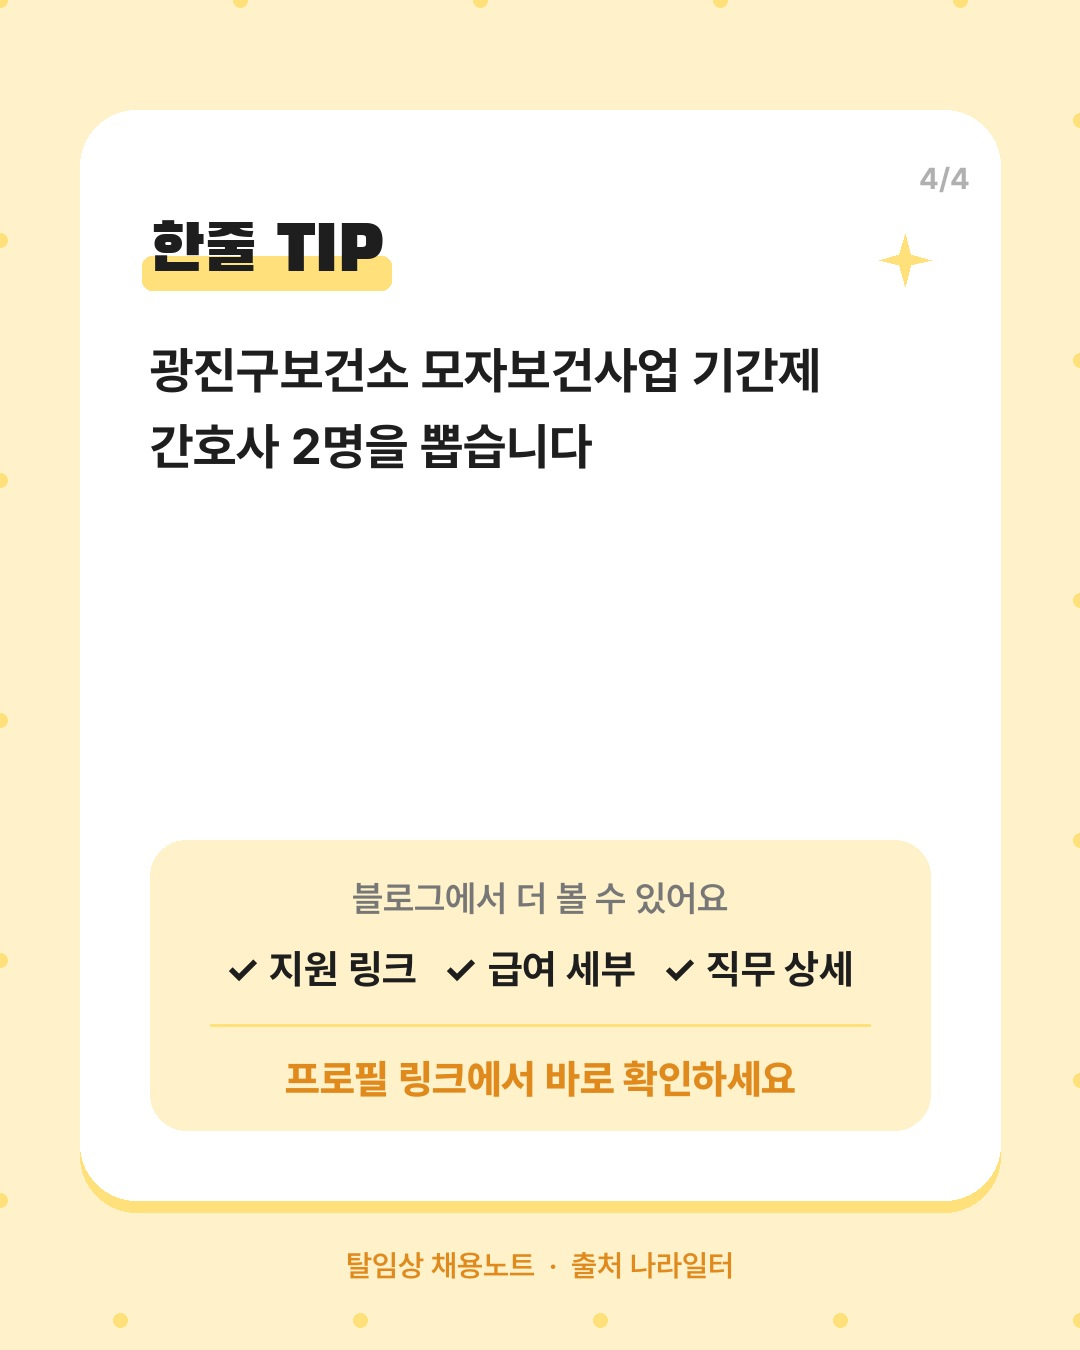
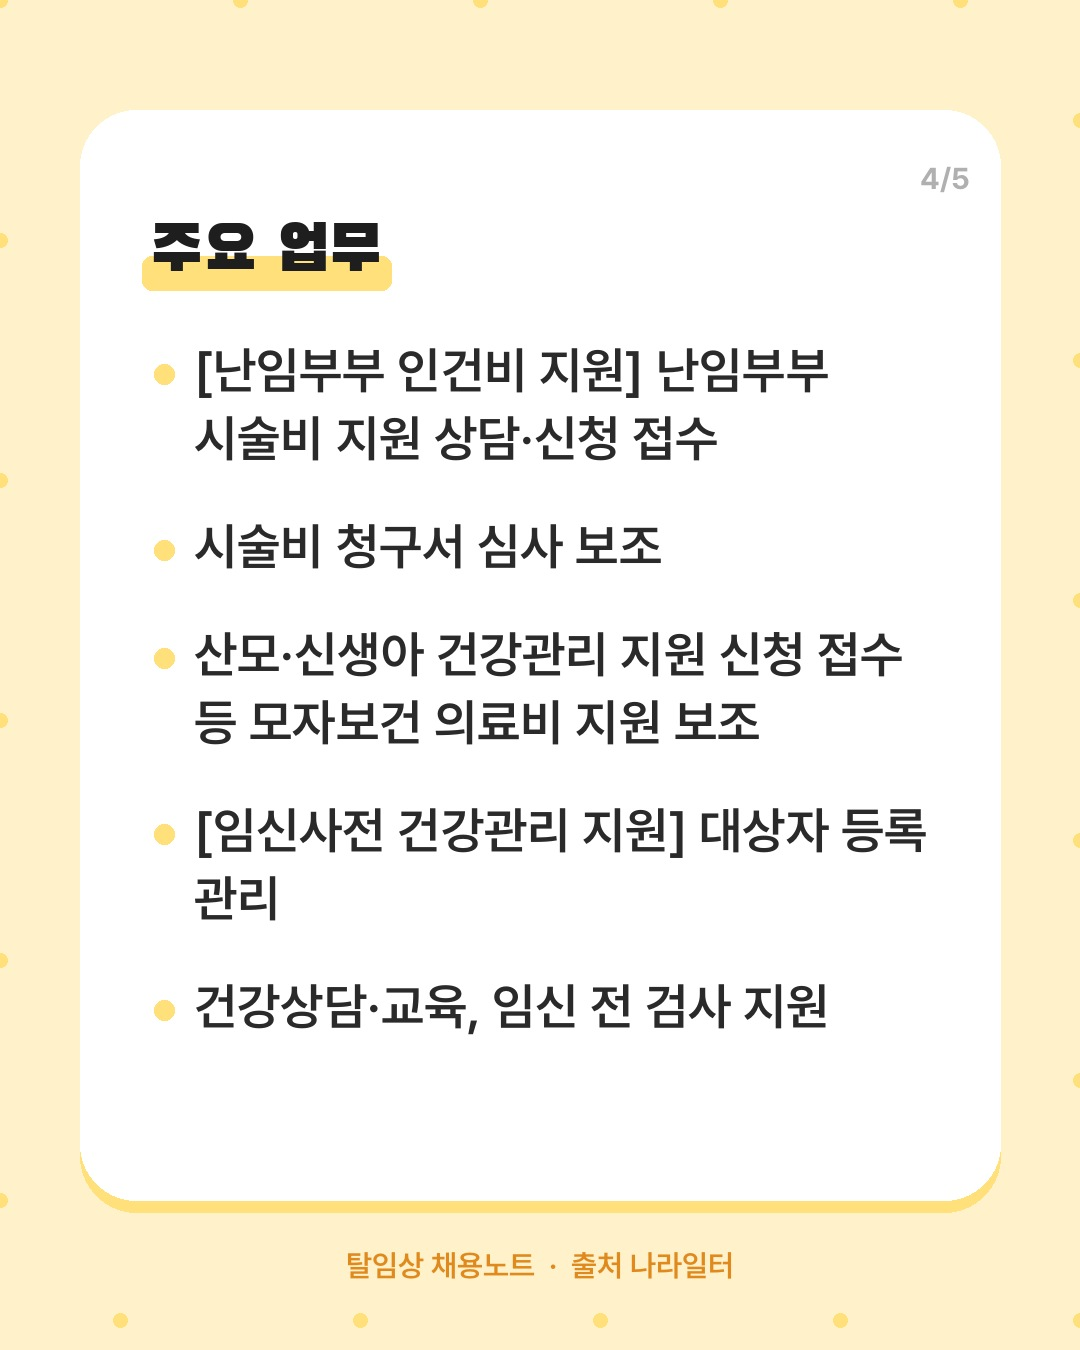
광진구보건소·평촌고 공고 내용 보완 (공고문), 블로그에 접수 방법 표시
Claude-Session: https://claude.ai/code/session_015ozFBvjxcWAyqLYfTbBGCZ

diff --git a/docs/2026-11-19/index.html b/docs/2026-11-19/index.html
@@ -19,31 +19,33 @@ a{color:var(--accent)}ul.days{padding-left:1.2em}
 <h1>2026-11-19 탈임상 공고 12건</h1>
 
 <h2>📝 오늘 올릴 블로그 글 3개</h2>
-<div class="box"><div class="row"><b>글 1. 평촌고등학교 · 기간제 보건교사</b>
+<div class="box"><div class="row"><b>글 1. 평촌고등학교 · 보건교사</b>
 <span class="muted">카테고리: 탈임상 채용공고 &gt; 보건교사</span></div>
-<div class="row" style="margin-top:8px"><pre id="pt1" style="flex:1;margin:0">(~11/23) 평촌고등학교 기간제 보건교사 채용</pre>
+<div class="row" style="margin-top:8px"><pre id="pt1" style="flex:1;margin:0">(~11/23) 평촌고등학교 보건교사 기간제 채용</pre>
 <button onclick="copyText('pt1',this)">제목 복사</button></div>
 <details open><summary class="muted" style="margin:10px 0;cursor:pointer">본문 미리보기 (접기)</summary>
 <div id="pb1" class="post"><p>호봉 기준 봉급을 받는 전일제 기간제라, 보건교사 자격증으로 학교 현장 경력을 쌓기 좋은 기회예요. 안양 평촌고가 연말까지 근무할 보건교사 1명을 찾고 있습니다.</p><p>&nbsp;</p>
 <h2>📌 채용 개요</h2>
 <table border="1" cellpadding="8" style="border-collapse:collapse;width:100%">
 <tr><td style="width:30%;background:#f5f5f5"><b>기관</b></td><td>평촌고등학교</td></tr>
-<tr><td style="width:30%;background:#f5f5f5"><b>부서 · 직무</b></td><td>기간제 보건교사</td></tr>
+<tr><td style="width:30%;background:#f5f5f5"><b>부서 · 직무</b></td><td>보건교사</td></tr>
 <tr><td style="width:30%;background:#f5f5f5"><b>채용 인원</b></td><td>1명</td></tr>
-<tr><td style="width:30%;background:#f5f5f5"><b>고용 형태</b></td><td>보건 (2026.11.27~2026.12.31)</td></tr>
+<tr><td style="width:30%;background:#f5f5f5"><b>고용 형태</b></td><td>기간제교원 (2026.11.27~2026.12.31)</td></tr>
 <tr><td style="width:30%;background:#f5f5f5"><b>근무지</b></td><td>경기 안양시</td></tr>
-<tr><td style="width:30%;background:#f5f5f5"><b>급여</b></td><td>공고문 확인 필요 (기관 내규)</td></tr>
+<tr><td style="width:30%;background:#f5f5f5"><b>급여</b></td><td>호봉 고정급 (공무원보수규정)</td></tr>
 <tr><td style="width:30%;background:#f5f5f5"><b>근무 시간</b></td><td>전일제</td></tr>
 <tr><td style="width:30%;background:#f5f5f5"><b>접수 기간</b></td><td>11월 18일 ~ 11월 23일 10:00 (D-4)</td></tr>
 </table><p>&nbsp;</p>
-<h2>💰 급여</h2><ul><li>공무원보수규정 제8조에 따라 산정된 호봉의 봉급 (고정급, 계약에 따름)</li></ul><p>&nbsp;</p>
+<h2>💰 급여</h2><ul><li>공무원보수규정 제8조에 따라 산정된 호봉의 봉급을 고정급으로 지급 (계약에 따름)</li></ul><p>&nbsp;</p>
 <h2>🎁 복리후생</h2><ul><li>건강보험·고용보험·산재보험·국민연금 가입</li></ul><p>&nbsp;</p>
-<h2>✅ 지원 자격</h2><ul><li>내국인으로서 보건교사 교원자격증 소지자</li><li>교육공무원 정년(만 62세) 미해당자 (1차 공고 65세까지 가능)</li><li>국가공무원법 제33조 등 결격사유에 해당하지 않는 자</li></ul><p>&nbsp;</p>
+<h2>✅ 지원 자격</h2><ul><li>보건교사 교원자격증 소지자 (내국인)</li><li>임용 상한 연령(교육공무원 정년) 미해당자</li><li>국가공무원법 제33조 등 결격사유 없는 자</li></ul><p>&nbsp;</p>
+<h2>⭐ 우대 사항</h2><ul><li>취업지원대상자 (관련 법률에 따라 우대)</li></ul><p>&nbsp;</p>
 <h2>📎 직무내용</h2><ul><li>고등학교 보건교사 업무</li></ul><p>&nbsp;</p>
-<h2>🧭 전형 절차</h2><ol><li>서류 → 면접(11.24) → 최종 발표(11.24)</li></ol><p>&nbsp;</p>
-<h2>💡 한줄 TIP</h2><p>마감이 11월 23일(월) 오전 10시라 주말 전에 서류를 준비해 두는 게 좋아요. 이메일 접수 시 파일명을 &#x27;지원서_과목_이름&#x27;으로 맞춰야 하니 놓치지 마세요.</p><p>&nbsp;</p>
+<h2>🧭 전형 절차</h2><ol><li>서류전형 → 면접(11/24) → 최종합격 개별통보(11/24)</li></ol><p>&nbsp;</p>
+<h2>💡 한줄 TIP</h2><p>학기 말 짧게 학교 경력을 쌓으려는 보건교사 자격 소지자에게 적합. 11/23 오전 10시 마감.</p><p>&nbsp;</p>
 <h2>🔗 지원하기</h2><ul>
 <li><a href="https://www.goe.go.kr/recruit/ad/func/pb/hnfpPbancList.do?mi=10502">경기도교육청 구인정보조회</a> → <b>"평촌고등학교"</b> 검색 후 지원하세요</li>
+<li>접수 방법: 방문(평촌고 우솔관 2층 교무실) 또는 이메일(pchs4824@korea.kr, 파일명: 지원서_과목_이름) 접수</li>
 </ul><p>※ 공고 내용을 요약한 글이에요. 지원 전 원문 공고문을 꼭 확인해주세요.</p><p>&nbsp;</p>
 <p>#평촌고등학교채용 #간호사채용 #탈임상 #탈임상간호사 #평촌고채용 #기간제보건교사 #안양보건교사 #경기교육청 #고등학교보건 #간호사이직</p></div></details>
 <div class="row"><span class="muted">네이버 글쓰기에 제목 → 본문 순서로 붙여넣으세요</span>
@@ -85,34 +87,38 @@ a{color:var(--accent)}ul.days{padding-left:1.2em}
 <div class="row" style="margin-top:10px"><pre id="tg2" style="flex:1;margin:0">#부산대학교병원채용 #간호사채용 #탈임상 #탈임상간호사 #부산대병원채용 #권역외상센터 #연구직간호사 #국비계약직 #외상데이터 #부산</pre>
 <button onclick="copyText('tg2',this)">태그 복사</button></div>
 <div class="row" style="margin-top:10px;align-items:flex-start"><a href="thumb-02.png" download><img src="thumb-02.png" alt="썸네일 2" style="width:160px;border-radius:8px;border:1px solid var(--line)"></a>
-<span class="muted">썸네일: 이미지를 눌러 저장 후 글 맨 위에 넣으세요</span></div></div><div class="box"><div class="row"><b>글 3. 광진구보건소 · 간호사</b>
+<span class="muted">썸네일: 이미지를 눌러 저장 후 글 맨 위에 넣으세요</span></div></div><div class="box"><div class="row"><b>글 3. 서울특별시 광진구보건소 · 간호사</b>
 <span class="muted">카테고리: 탈임상 채용공고 &gt; 공공기관·공무원</span></div>
-<div class="row" style="margin-top:8px"><pre id="pt3" style="flex:1;margin:0">(~12/4) 광진구보건소 건강관리과 건강돌봄팀 간호사 기간제 채용</pre>
+<div class="row" style="margin-top:8px"><pre id="pt3" style="flex:1;margin:0">(~12/4) 서울특별시 광진구보건소 건강관리과 간호사 기간제 채용</pre>
 <button onclick="copyText('pt3',this)">제목 복사</button></div>
 <details open><summary class="muted" style="margin:10px 0;cursor:pointer">본문 미리보기 (접기)</summary>
-<div id="pb3" class="post"><p>서울 안에서 병원이 아닌 보건소 사업으로 경력을 시작해 보고 싶다면 눈여겨볼 자리예요. 광진구보건소가 모자보건사업을 함께할 간호사 2명을 기간제로 찾고 있습니다.</p><p>&nbsp;</p>
+<div id="pb3" class="post"><p>교대 없이 평일 9시부터 6시까지, 보건소에서 임산부·난임부부를 돕는 일을 찾는다면 반가운 공고예요. 서울 광진구보건소 건강관리과가 모자보건사업 기간제 간호사 2명을 분야별로 1명씩 뽑아요.</p><p>&nbsp;</p>
 <h2>📌 채용 개요</h2>
 <table border="1" cellpadding="8" style="border-collapse:collapse;width:100%">
-<tr><td style="width:30%;background:#f5f5f5"><b>기관</b></td><td>광진구보건소</td></tr>
-<tr><td style="width:30%;background:#f5f5f5"><b>부서 · 직무</b></td><td>건강관리과 건강돌봄팀 간호사</td></tr>
-<tr><td style="width:30%;background:#f5f5f5"><b>채용 인원</b></td><td>2명</td></tr>
+<tr><td style="width:30%;background:#f5f5f5"><b>기관</b></td><td>서울특별시 광진구보건소</td></tr>
+<tr><td style="width:30%;background:#f5f5f5"><b>부서 · 직무</b></td><td>건강관리과 간호사</td></tr>
+<tr><td style="width:30%;background:#f5f5f5"><b>채용 인원</b></td><td>2명 (분야별 1명)</td></tr>
 <tr><td style="width:30%;background:#f5f5f5"><b>고용 형태</b></td><td>기간제 (2027.01.04~2027.06.30)</td></tr>
-<tr><td style="width:30%;background:#f5f5f5"><b>근무지</b></td><td>서울시 광진구 아차산로 400 (광진구보건소)</td></tr>
-<tr><td style="width:30%;background:#f5f5f5"><b>급여</b></td><td>공고문 확인 필요 (기관 내규)</td></tr>
-<tr><td style="width:30%;background:#f5f5f5"><b>근무 시간</b></td><td>공고문 확인 필요</td></tr>
-<tr><td style="width:30%;background:#f5f5f5"><b>접수 기간</b></td><td>11월 16일 ~ 12월 4일 (D-15)</td></tr>
+<tr><td style="width:30%;background:#f5f5f5"><b>근무지</b></td><td>서울특별시 광진구 아차산로 400, 광진구보건소 3층 건강관리과</td></tr>
+<tr><td style="width:30%;background:#f5f5f5"><b>급여</b></td><td>월 약 267만원</td></tr>
+<tr><td style="width:30%;background:#f5f5f5"><b>근무 시간</b></td><td>주 5일 09:00~18:00</td></tr>
+<tr><td style="width:30%;background:#f5f5f5"><b>접수 기간</b></td><td>11월 16일 ~ 12월 4일 18:00 (D-15)</td></tr>
 </table><p>&nbsp;</p>
-<h2>💰 급여</h2><ul><li>보수는 첨부 채용공고문 확인</li></ul><p>&nbsp;</p>
-<h2>✅ 지원 자격</h2><ul><li>간호사 면허 소지자 (세부 자격은 첨부 채용공고문 확인)</li></ul><p>&nbsp;</p>
-<h2>📎 직무내용</h2><ul><li>모자보건사업 업무</li></ul><p>&nbsp;</p>
-<h2>💡 한줄 TIP</h2><p>임산부·영유아 대상 사업에 관심 있는 분께 잘 맞는 자리예요. 근무는 내년 1월부터 6개월이고, 이메일로도 접수할 수 있어 재직 중이어도 지원하기 편해요. 보수·세부 자격은 첨부 공고문을 꼭 확인하세요.</p><p>&nbsp;</p>
+<h2>💰 급여</h2><ul><li>1일 급여 102,056원 (주휴수당 지급)</li><li>2026년 서울시 생활임금 월 2,666,213원 보전 지급 (예산에 따라 변동 가능)</li><li>4대 보험료 본인부담금 포함 금액</li><li>계약기간은 2027년 예산·근무상황에 따라 변동 가능</li></ul><p>&nbsp;</p>
+<h2>🎁 복리후생</h2><ul><li>주휴수당 지급</li><li>연차유급휴가</li><li>4대 보험</li></ul><p>&nbsp;</p>
+<h2>✅ 지원 자격</h2><ul><li>간호사 면허증 소지자로 실무 적용 능력을 갖춘 자</li><li>지방공무원법 제31조(결격사유) 등 관련 법령상 결격사유 없는 자</li></ul><p>&nbsp;</p>
+<h2>⭐ 우대 사항</h2><ul><li>모자보건사업 경력자</li><li>한글·엑셀 등 컴퓨터 프로그램 활용 가능자</li></ul><p>&nbsp;</p>
+<h2>📎 직무내용</h2><ul><li>[난임부부 인건비 지원] 난임부부 시술비 지원 상담·신청 접수</li><li>시술비 청구서 심사 보조</li><li>산모·신생아 건강관리 지원 신청 접수 등 모자보건 의료비 지원 보조</li><li>[임신사전 건강관리 지원] 대상자 등록 관리</li><li>건강상담·교육, 임신 전 검사 지원</li><li>임산부·영유아 등록 및 건강관리</li><li>35세 이상 임산부 의료비 지원, 서울아기 건강첫걸음 사업 지원</li></ul><p>&nbsp;</p>
+<h2>🧭 전형 절차</h2><ol><li>서류심사 → 면접심사(12/17 예정) → 최종합격(12/21)</li></ol><p>&nbsp;</p>
+<h2>💡 한줄 TIP</h2><p>교대 없는 주간 근무로 보건소 모자보건 경력을 쌓고 싶은 간호사에게 추천합니다. 서울시 생활임금 보전.</p><p>&nbsp;</p>
 <h2>🔗 지원하기</h2><ul>
-<li><a href="https://www.korea.kr/archive/recruitInfoView.do?dataId=399954">기관 채용 홈페이지에서 바로 지원</a></li>
+<li><a href="https://www.korea.kr/archive/recruitInfoView.do?dataId=399954">공고 원문 보기</a></li>
+<li>접수 방법: 방문(광진구보건소 3층 건강관리과)·우편·이메일(zxzx4810@gwangjin.go.kr) 접수, 응시원서는 광진구 홈페이지 채용공고 게시판에서 다운로드</li>
 </ul><p>※ 공고 내용을 요약한 글이에요. 지원 전 원문 공고문을 꼭 확인해주세요.</p><p>&nbsp;</p>
-<p>#광진구보건소채용 #간호사채용 #탈임상 #탈임상간호사 #모자보건사업 #보건소간호사 #서울기간제 #간호사이직 #공공기관채용</p></div></details>
+<p>#서울특별시광진구보건소채용 #간호사채용 #탈임상 #탈임상간호사 #광진구보건소채용 #보건소간호사 #모자보건 #기간제간호사 #서울보건소 #간호사이직</p></div></details>
 <div class="row"><span class="muted">네이버 글쓰기에 제목 → 본문 순서로 붙여넣으세요</span>
 <button onclick="copyHtml('pb3',this)">본문 복사</button></div>
-<div class="row" style="margin-top:10px"><pre id="tg3" style="flex:1;margin:0">#광진구보건소채용 #간호사채용 #탈임상 #탈임상간호사 #모자보건사업 #보건소간호사 #서울기간제 #간호사이직 #공공기관채용</pre>
+<div class="row" style="margin-top:10px"><pre id="tg3" style="flex:1;margin:0">#서울특별시광진구보건소채용 #간호사채용 #탈임상 #탈임상간호사 #광진구보건소채용 #보건소간호사 #모자보건 #기간제간호사 #서울보건소 #간호사이직</pre>
 <button onclick="copyText('tg3',this)">태그 복사</button></div>
 <div class="row" style="margin-top:10px;align-items:flex-start"><a href="thumb-03.png" download><img src="thumb-03.png" alt="썸네일 3" style="width:160px;border-radius:8px;border:1px solid var(--line)"></a>
 <span class="muted">썸네일: 이미지를 눌러 저장 후 글 맨 위에 넣으세요</span></div></div>
@@ -146,7 +152,7 @@ a{color:var(--accent)}ul.days{padding-left:1.2em}
 <tr><td>11/28 (D-9)</td><td><a href="https://www.redcross.or.kr/redrecruit/">대한적십자사</a><br>혈액원 간호사</td><td>울산</td></tr>
 <tr><td>11/30 (D-11)</td><td><a href="https://nhimc.recruiter.co.kr/career/jobs/130667">국민건강보험공단 일산병원</a><br>일차의료개발센터 간호사</td><td>경기 고양</td></tr>
 <tr><td>12/1 (D-12)</td><td><a href="https://nhimc.recruiter.co.kr">국민건강보험공단 일산병원</a><br>일차의료거점지원센터 간호사</td><td>경기</td></tr>
-<tr><td>12/4 (D-15)</td><td><a href="https://www.korea.kr/archive/recruitInfoView.do?dataId=399954">광진구보건소</a><br>건강관리과 건강돌봄팀 간호사</td><td>서울 광진구</td></tr>
+<tr><td>12/4 (D-15)</td><td><a href="https://www.korea.kr/archive/recruitInfoView.do?dataId=399954">서울특별시 광진구보건소</a><br>건강관리과 간호사</td><td>서울 광진구</td></tr>
 </table><p>&nbsp;</p>
 <h2>🔬 임상연구 (1건)</h2>
 <table border="1" cellpadding="8" style="border-collapse:collapse;width:100%">
@@ -158,7 +164,7 @@ a{color:var(--accent)}ul.days{padding-left:1.2em}
 <tr style="background:#f5f5f5"><td><b>마감</b></td><td><b>기관 · 직무</b></td><td><b>근무지</b></td></tr>
 <tr><td>11/20 (D-1)</td><td><a href="https://www.goe.go.kr/recruit/ad/func/pb/hnfpPbancList.do?mi=10502">서연초등학교</a><br>기간제 보건교사 (2건)</td><td>경기 수원시</td></tr>
 <tr><td>11/20 (D-1)</td><td><a href="https://work.sen.go.kr/work/search/recInfo/BD_selectRecDetail.do?q_rcrtSn=98240">서울매헌초등학교</a><br>보건 시간강사</td><td>서울 서초구</td></tr>
-<tr><td>11/23 (D-4)</td><td><a href="https://www.goe.go.kr/recruit/ad/func/pb/hnfpPbancList.do?mi=10502">평촌고등학교</a><br>기간제 보건교사</td><td>경기 안양시</td></tr>
+<tr><td>11/23 (D-4)</td><td><a href="https://www.goe.go.kr/recruit/ad/func/pb/hnfpPbancList.do?mi=10502">평촌고등학교</a><br>보건교사</td><td>경기 안양시</td></tr>
 <tr><td>11/27 (D-8)</td><td><a href="https://work.sen.go.kr/work/search/recInfo/BD_selectRecDetail.do?q_rcrtSn=114471">서울명신초등학교</a><br>보건 시간강사</td><td>서울 종로구</td></tr>
 <tr><td>1/8 (D-50)</td><td><a href="https://work.sen.go.kr/work/search/recInfo/BD_selectRecDetail.do?q_rcrtSn=110792">봉은중학교</a><br>보건 대체강사</td><td>서울</td></tr>
 </table><p>&nbsp;</p>
@@ -173,14 +179,15 @@ a{color:var(--accent)}ul.days{padding-left:1.2em}
 <h2>📷 인스타 게시물 (공고 1개 = 1장)</h2>
 <div class="box"><div style="display:flex;flex-wrap:wrap"><a href="ig-01-1.jpg" download><img src="ig-01-1.jpg" alt="인스타 1-1" style="width:150px;border-radius:8px;border:1px solid var(--line);margin:0 6px 6px 0"></a><a href="ig-01-2.jpg" download><img src="ig-01-2.jpg" alt="인스타 1-2" style="width:150px;border-radius:8px;border:1px solid var(--line);margin:0 6px 6px 0"></a><a href="ig-01-3.jpg" download><img src="ig-01-3.jpg" alt="인스타 1-3" style="width:150px;border-radius:8px;border:1px solid var(--line);margin:0 6px 6px 0"></a><a href="ig-01-4.jpg" download><img src="ig-01-4.jpg" alt="인스타 1-4" style="width:150px;border-radius:8px;border:1px solid var(--line);margin:0 6px 6px 0"></a></div>
 <div><b>인스타 1. 평촌고등학교</b> <span class="muted">(4장 · 순서대로 올리세요)</span>
-<pre id="ic1" style="margin:8px 0">📌 평촌고등학교 기간제 보건교사 채용
+<pre id="ic1" style="margin:8px 0">📌 평촌고등학교 보건교사 기간제 채용
 
 📍 근무지: 경기 안양시
 ⏰ 마감: 11/23 10:00까지 (D-4)
+💰 급여: 호봉 고정급 (공무원보수규정)
 🕘 근무: 전일제
-✅ 자격: 보건교사 자격증
+✅ 자격: 보건교사 교원자격증 / 11/27~12/31 근무 가능 / 11/23 오전 10시 마감
 
-💡 안양 평촌고등학교 기간제 보건교사 1명(11.27~12.31, 전일제) 모집입니다. 11월 23일 오전 10시까지 방문·이메일로 접수하고 24일 면접이 있어요.
+💡 학기 말 짧게 학교 경력을 쌓으려는 보건교사 자격 소지자에게 적합. 11/23 오전 10시 마감.
 
 🔗 우대 사항·전형·지원 링크는 프로필 링크(블로그)에서
 💾 저장해두고 마감 체크
@@ -202,20 +209,22 @@ a{color:var(--accent)}ul.days{padding-left:1.2em}
 💾 저장해두고 마감 체크
 
 #탈임상 #탈임상간호사 #간호사채용 #간호사이직 #간호사취업 #부산대병원채용 #권역외상센터 #연구직간호사 #국비계약직 #외상데이터 #부산</pre>
-<button onclick="copyText('ic2',this)">캡션 복사</button></div></div><div class="box"><div style="display:flex;flex-wrap:wrap"><a href="ig-03-1.jpg" download><img src="ig-03-1.jpg" alt="인스타 3-1" style="width:150px;border-radius:8px;border:1px solid var(--line);margin:0 6px 6px 0"></a><a href="ig-03-2.jpg" download><img src="ig-03-2.jpg" alt="인스타 3-2" style="width:150px;border-radius:8px;border:1px solid var(--line);margin:0 6px 6px 0"></a><a href="ig-03-3.jpg" download><img src="ig-03-3.jpg" alt="인스타 3-3" style="width:150px;border-radius:8px;border:1px solid var(--line);margin:0 6px 6px 0"></a><a href="ig-03-4.jpg" download><img src="ig-03-4.jpg" alt="인스타 3-4" style="width:150px;border-radius:8px;border:1px solid var(--line);margin:0 6px 6px 0"></a></div>
-<div><b>인스타 3. 광진구보건소</b> <span class="muted">(4장 · 순서대로 올리세요)</span>
-<pre id="ic3" style="margin:8px 0">📌 광진구보건소 건강관리과 건강돌봄팀 간호사 기간제 채용
+<button onclick="copyText('ic2',this)">캡션 복사</button></div></div><div class="box"><div style="display:flex;flex-wrap:wrap"><a href="ig-03-1.jpg" download><img src="ig-03-1.jpg" alt="인스타 3-1" style="width:150px;border-radius:8px;border:1px solid var(--line);margin:0 6px 6px 0"></a><a href="ig-03-2.jpg" download><img src="ig-03-2.jpg" alt="인스타 3-2" style="width:150px;border-radius:8px;border:1px solid var(--line);margin:0 6px 6px 0"></a><a href="ig-03-3.jpg" download><img src="ig-03-3.jpg" alt="인스타 3-3" style="width:150px;border-radius:8px;border:1px solid var(--line);margin:0 6px 6px 0"></a><a href="ig-03-4.jpg" download><img src="ig-03-4.jpg" alt="인스타 3-4" style="width:150px;border-radius:8px;border:1px solid var(--line);margin:0 6px 6px 0"></a><a href="ig-03-5.jpg" download><img src="ig-03-5.jpg" alt="인스타 3-5" style="width:150px;border-radius:8px;border:1px solid var(--line);margin:0 6px 6px 0"></a></div>
+<div><b>인스타 3. 서울특별시 광진구보건소</b> <span class="muted">(5장 · 순서대로 올리세요)</span>
+<pre id="ic3" style="margin:8px 0">📌 서울특별시 광진구보건소 건강관리과 간호사 기간제 채용
 
 📍 근무지: 서울 광진구
-⏰ 마감: 12/4까지 (D-15)
-✅ 자격: 간호사 면허
+⏰ 마감: 12/4 18:00까지 (D-15)
+💰 급여: 월 약 267만원
+🕘 근무: 주 5일 09:00~18:00
+✅ 자격: 간호사 면허 / 모자보건사업 경력 우대 / 12/4 18시 마감
 
-💡 광진구보건소 모자보건사업 기간제 간호사 2명을 뽑습니다. 근무기간은 2027.1.4~6.30(6개월)이고 이메일·방문·우편으로 12월 4일까지 접수해요.
+💡 교대 없는 주간 근무로 보건소 모자보건 경력을 쌓고 싶은 간호사에게 추천합니다. 서울시 생활임금 보전.
 
 🔗 우대 사항·전형·지원 링크는 프로필 링크(블로그)에서
 💾 저장해두고 마감 체크
 
-#탈임상 #탈임상간호사 #간호사채용 #간호사이직 #간호사취업 #광진구보건소채용 #모자보건사업 #보건소간호사 #서울기간제</pre>
+#탈임상 #탈임상간호사 #간호사채용 #간호사이직 #간호사취업 #광진구보건소채용 #보건소간호사 #모자보건 #기간제간호사 #서울보건소</pre>
 <button onclick="copyText('ic3',this)">캡션 복사</button></div></div>
 
 </main><script>

diff --git a/src/blog.py b/src/blog.py
@@ -223,7 +223,9 @@ def post_html(job: Job, today: date) -> str:
     elif _is_site_home(job.url):
         out.append(f'<li><a href="{_e(job.url)}">{_e(_org(job))} 채용 홈페이지</a> → 공고 목록에서 <b>"{_e(job.title)}"</b>을 찾아 지원하세요</li>')
     else:
-        out.append(f'<li><a href="{_e(job.url)}">기관 채용 홈페이지에서 바로 지원</a></li>')
+        out.append(f'<li><a href="{_e(job.url)}">{"공고 원문 보기" if job.source == "gojobs" else "기관 채용 홈페이지에서 바로 지원"}</a></li>')
+    if job.extra.get("apply"):
+        out.append(f'<li>접수 방법: {_e(job.extra["apply"])}</li>')
     out.append("</ul><p>※ 공고 내용을 요약한 글이에요. 지원 전 원문 공고문을 꼭 확인해주세요.</p><p>&nbsp;</p>")
 
     out.append("<p>" + " ".join(f"#{_e(t)}" for t in blog_tags(job)) + "</p>")
